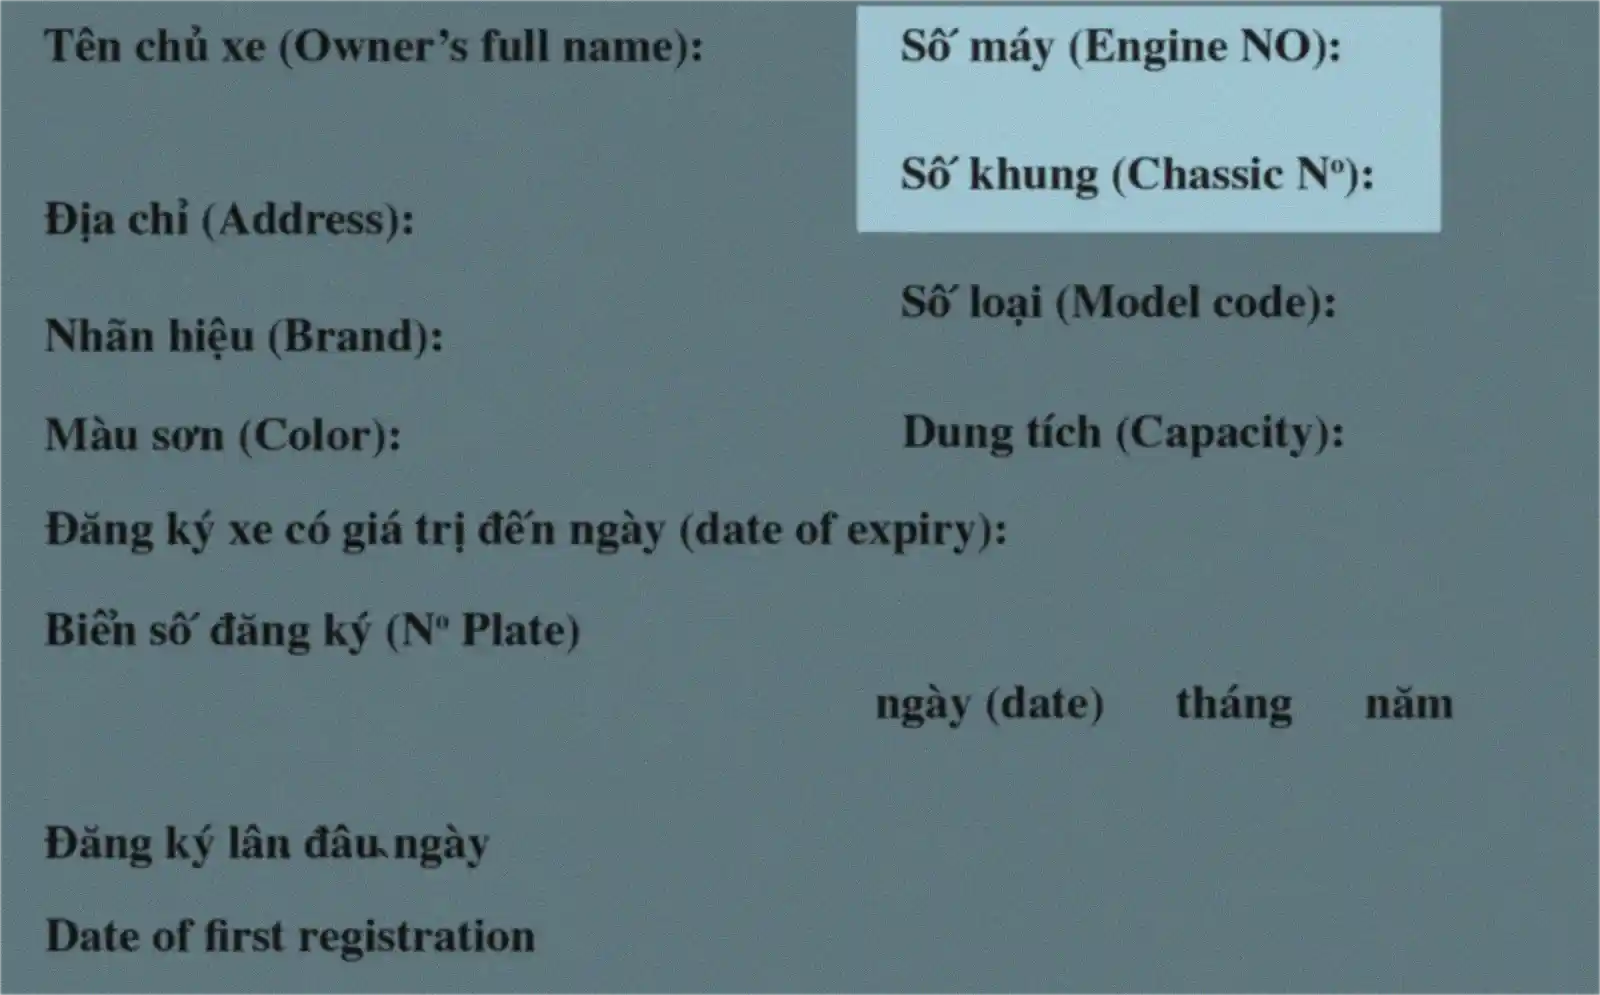
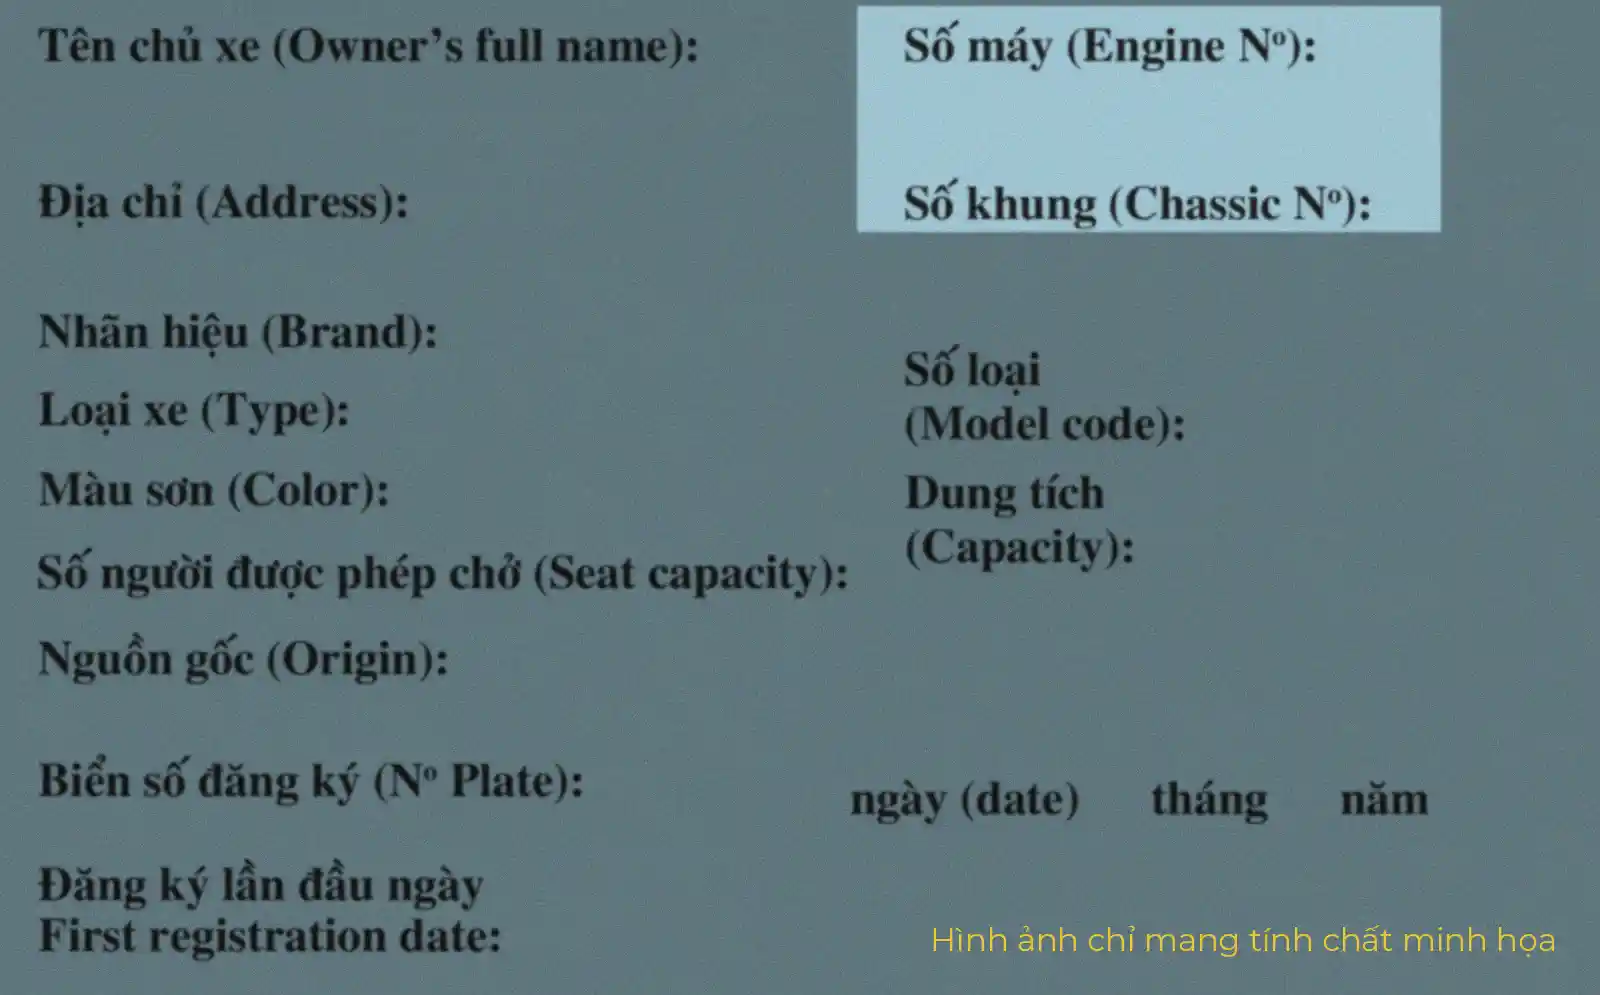
chore: update vehicle registration certificate mock images and text in GuideModal

diff --git a/src/components/modals/GuideModal.tsx b/src/components/modals/GuideModal.tsx
@@ -11,12 +11,12 @@ interface GuideModalProps {
 
 export default function GuideModal({ isOpen, onClose }: GuideModalProps) {
   const [currentSlide, setCurrentSlide] = useState(0);
-  const slides = ['Mẫu cà vẹt xe mới', 'Mẫu chứng nhận cũ'];
+  const slides = ['Mẫu cà vẹt xe mới (minh họa)', 'Mẫu cà vẹt xe cũ (minh họa)'];
 
   // Swipe handlers
   const [touchStart, setTouchStart] = useState<number | null>(null);
   const [touchEnd, setTouchEnd] = useState<number | null>(null);
-  
+
   const minSwipeDistance = 40;
 
   const onTouchStart = (e: React.TouchEvent) => {
@@ -33,7 +33,7 @@ export default function GuideModal({ isOpen, onClose }: GuideModalProps) {
     const distance = touchStart - touchEnd;
     const isLeftSwipe = distance > minSwipeDistance;
     const isRightSwipe = distance < -minSwipeDistance;
-    
+
     if (isLeftSwipe && currentSlide < slides.length - 1) {
       setCurrentSlide(currentSlide + 1);
     }
@@ -47,8 +47,8 @@ export default function GuideModal({ isOpen, onClose }: GuideModalProps) {
   return (
     <div className="fixed inset-0 z-50 flex items-end justify-center sm:items-center">
       {/* Overlay backblrop */}
-      <div 
-        className="fixed inset-0 bg-black/40 transition-opacity" 
+      <div
+        className="fixed inset-0 bg-black/40 transition-opacity"
         onClick={onClose}
       />
 
@@ -59,7 +59,7 @@ export default function GuideModal({ isOpen, onClose }: GuideModalProps) {
 
         <div className="relative flex justify-center items-center mb-4 shrink-0">
           <h2 className="text-[18px] font-bold text-[#1a1a1a] text-center w-full px-8">Cách tìm số khung, số máy</h2>
-          <button 
+          <button
             onClick={onClose}
             className="absolute right-0 p-1.5 hover:bg-gray-100 rounded-full transition-colors z-10"
           >
@@ -69,39 +69,39 @@ export default function GuideModal({ isOpen, onClose }: GuideModalProps) {
 
         {/* Scrollable Content */}
         <div className="flex-grow overflow-y-auto no-scrollbar space-y-6 pb-2">
-          
+
           {/* Slider Section */}
           <div className="flex flex-col items-center">
             {/* Box Image Placeholder */}
-            <div 
+            <div
               className="w-full relative aspect-[1600/995] bg-[#d3b878] rounded-xl flex items-center justify-center mb-3 overflow-hidden shadow-inner touch-pan-y"
               onTouchStart={onTouchStart}
               onTouchMove={onTouchMove}
               onTouchEnd={onTouchEndHandler}
             >
-               <div className="absolute inset-y-0 inset-x-0 w-[200%] flex transition-transform duration-300 ease-in-out" style={{ transform: `translateX(-${currentSlide * 50}%)` }}>
-                 <div className="w-1/2 shrink-0 flex items-center justify-center relative h-full">
-                   <Image src="/assets/ca-vet-moi.webp" alt="Mẫu cà vẹt xe mới" fill className="object-contain" />
-                 </div>
-                 <div className="w-1/2 shrink-0 flex items-center justify-center relative h-full">
-                   <Image src="/assets/ca-vet-cu.webp" alt="Mẫu cà vẹt xe cũ" fill className="object-contain" />
-                 </div>
-               </div>
-               
-               {/* Nút bấm chuyển slide hiện hình */}
-               <button 
-                 onClick={() => setCurrentSlide(0)} 
-                 className={`absolute left-2 top-1/2 -translate-y-1/2 w-8 h-8 rounded-full bg-white/80 shadow-sm flex items-center justify-center z-10 transition-opacity duration-300 ${currentSlide === 0 ? 'opacity-0 pointer-events-none' : 'opacity-100 hover:bg-white'}`}
-               >
-                 <ChevronLeft className="w-5 h-5 text-[#1a1a1a]" />
-               </button>
-               
-               <button 
-                 onClick={() => setCurrentSlide(1)} 
-                 className={`absolute right-2 top-1/2 -translate-y-1/2 w-8 h-8 rounded-full bg-white/80 shadow-sm flex items-center justify-center z-10 transition-opacity duration-300 ${currentSlide === 1 ? 'opacity-0 pointer-events-none' : 'opacity-100 hover:bg-white'}`}
-               >
-                 <ChevronRight className="w-5 h-5 text-[#1a1a1a]" />
-               </button>
+              <div className="absolute inset-y-0 inset-x-0 w-[200%] flex transition-transform duration-300 ease-in-out" style={{ transform: `translateX(-${currentSlide * 50}%)` }}>
+                <div className="w-1/2 shrink-0 flex items-center justify-center relative h-full">
+                  <Image src="/assets/ca-vet-moi.webp" alt="Mẫu cà vẹt xe mới (minh họa)" fill className="object-contain" />
+                </div>
+                <div className="w-1/2 shrink-0 flex items-center justify-center relative h-full">
+                  <Image src="/assets/ca-vet-cu.webp" alt="Mẫu cà vẹt xe cũ (minh họa)" fill className="object-contain" />
+                </div>
+              </div>
+
+              {/* Nút bấm chuyển slide hiện hình */}
+              <button
+                onClick={() => setCurrentSlide(0)}
+                className={`absolute left-2 top-1/2 -translate-y-1/2 w-8 h-8 rounded-full bg-white/80 shadow-sm flex items-center justify-center z-10 transition-opacity duration-300 ${currentSlide === 0 ? 'opacity-0 pointer-events-none' : 'opacity-100 hover:bg-white'}`}
+              >
+                <ChevronLeft className="w-5 h-5 text-[#1a1a1a]" />
+              </button>
+
+              <button
+                onClick={() => setCurrentSlide(1)}
+                className={`absolute right-2 top-1/2 -translate-y-1/2 w-8 h-8 rounded-full bg-white/80 shadow-sm flex items-center justify-center z-10 transition-opacity duration-300 ${currentSlide === 1 ? 'opacity-0 pointer-events-none' : 'opacity-100 hover:bg-white'}`}
+              >
+                <ChevronRight className="w-5 h-5 text-[#1a1a1a]" />
+              </button>
             </div>
 
             <span className="text-[13px] text-[#4b5563] mb-3">{slides[currentSlide]}</span>
@@ -109,8 +109,8 @@ export default function GuideModal({ isOpen, onClose }: GuideModalProps) {
             {/* Pagination Dots */}
             <div className="flex gap-1.5">
               {slides.map((_, idx) => (
-                <div 
-                  key={idx} 
+                <div
+                  key={idx}
                   className={`h-1.5 rounded-full transition-all ${currentSlide === idx ? 'w-4 bg-[#0253af]' : 'w-1.5 bg-gray-300'}`}
                 />
               ))}
@@ -143,10 +143,10 @@ export default function GuideModal({ isOpen, onClose }: GuideModalProps) {
             </div>
           </div>
         </div>
-        
+
         {/* Sticky Button bottom */}
         <div className="shrink-0 pt-4 bg-white">
-          <button 
+          <button
             onClick={onClose}
             className="w-full bg-[#0253af] text-white font-bold py-3.5 rounded-xl text-[16px] hover:bg-blue-800 transition-colors"
           >

diff --git a/src/app/api/ocr/route.ts b/src/app/api/ocr/route.ts
@@ -19,8 +19,40 @@ if (process.env.GOOGLE_APPLICATION_CREDENTIALS_JSON) {
 
 const client = new vision.ImageAnnotatorClient(clientConfigs);
 
+/**
+ * Hàm helper: trích xuất giá trị từ dòng hiện tại hoặc dòng kế tiếp.
+ * 
+ * Xử lý 2 trường hợp phổ biến trong Cavet:
+ *   Trường hợp 1: "Tên chủ xe: NGUYỄN VĂN A"  → lấy phần sau dấu ":"
+ *   Trường hợp 2: "Tên chủ xe"
+ *                  "NGUYỄN VĂN A"               → lấy dòng kế tiếp
+ */
+function extractValue(currentLine: string, nextLine: string | undefined, cleanRegex?: RegExp): string {
+  // Trường hợp 1: Giá trị nằm sau dấu ":" hoặc "：" trên cùng dòng
+  const colonIndex = currentLine.search(/[:：]/);
+  if (colonIndex !== -1) {
+    const afterColon = currentLine.substring(colonIndex + 1).trim();
+    if (afterColon.length > 0) {
+      return cleanRegex ? afterColon.replace(cleanRegex, '') : afterColon;
+    }
+  }
+
+  // Trường hợp 2: Giá trị nằm ở dòng kế tiếp
+  const value = nextLine || '';
+  return cleanRegex ? value.replace(cleanRegex, '') : value;
+}
+
 export async function POST(req: NextRequest) {
   try {
+    // Fix #3: Kiểm tra Content-Length để từ chối payload quá lớn sớm
+    const contentLength = req.headers.get('content-length');
+    if (contentLength && parseInt(contentLength) > 10 * 1024 * 1024) {
+      return NextResponse.json(
+        { error: 'Dữ liệu ảnh quá lớn. Vui lòng chọn ảnh nhỏ hơn.' },
+        { status: 413 }
+      );
+    }
+
     const { imageBase64 } = await req.json();
     if (!imageBase64) {
       return NextResponse.json({ error: 'Vui lòng cung cấp dữ liệu ảnh.' }, { status: 400 });
@@ -39,7 +71,11 @@ export async function POST(req: NextRequest) {
     const fullTextAnnotation = result.fullTextAnnotation;
     
     if (!fullTextAnnotation || !fullTextAnnotation.text) {
-      return NextResponse.json({ extracted: {} });
+      return NextResponse.json({ 
+        success: false, 
+        error: 'Không nhận diện được văn bản từ ảnh. Vui lòng chụp rõ nét hơn.',
+        extracted: {} 
+      });
     }
 
     const text = fullTextAnnotation.text;
@@ -52,38 +88,69 @@ export async function POST(req: NextRequest) {
       engineNumber: '',
       address: '',
     };
+
+    // Regex dọn dẹp cho từng loại field
+    const alphanumericDotDash = /[^A-Z0-9.\-]/gi;  // Cho biển số (giữ dấu . và -)
+    const alphanumericOnly = /[^A-Z0-9]/gi;          // Cho số khung, số máy
     
-    // Logic quét dòng và đọc giá trị kế tiếp (rất phổ biến đối với cấu trúc Cavet)
+    // Fix #2: Logic parse text linh hoạt — kiểm tra cùng dòng (sau dấu ":") trước, rồi mới lấy dòng kế
     for (let i = 0; i < lines.length; i++) {
         const line = lines[i].toUpperCase();
+        const originalLine = lines[i]; // Giữ nguyên bản gốc (có dấu) cho extractValue
         
         if (line.includes("TÊN") && (line.includes("CHỦ XE") || line.includes("OWNER"))) {
-            if (!extracted.ownerName) extracted.ownerName = lines[i+1] || '';
+            if (!extracted.ownerName) {
+              extracted.ownerName = extractValue(originalLine, lines[i+1]);
+            }
         }
         else if (line.includes("BIỂN SỐ") || line.includes("LICENSE PLATE")) {
-            if (!extracted.licensePlate) extracted.licensePlate = (lines[i+1] || '').replace(/[^A-Z0-9-]/gi, '');
+            if (!extracted.licensePlate) {
+              extracted.licensePlate = extractValue(originalLine, lines[i+1], alphanumericDotDash);
+            }
         }
         else if (line.includes("SỐ KHUNG") || line.includes("CHASSIS NO")) {
-            if (!extracted.chassisNumber) extracted.chassisNumber = (lines[i+1] || '').replace(/[^A-Z0-9]/gi, '');
+            if (!extracted.chassisNumber) {
+              extracted.chassisNumber = extractValue(originalLine, lines[i+1], alphanumericOnly);
+            }
         }
         else if (line.includes("SỐ MÁY") || line.includes("ENGINE NO")) {
-            if (!extracted.engineNumber) extracted.engineNumber = (lines[i+1] || '').replace(/[^A-Z0-9]/gi, '');
+            if (!extracted.engineNumber) {
+              extracted.engineNumber = extractValue(originalLine, lines[i+1], alphanumericOnly);
+            }
         }
         else if (line.includes("ĐỊA CHỈ") || line.includes("ADDRESS")) {
             if (!extracted.address) {
-              let addr = lines[i+1] || '';
-              // Lấy thêm dòng tiếp theo nếu dòng đó không phải là Title của trường tiếp theo
-              if (lines[i+2] && !lines[i+2].toUpperCase().includes("NHÃN HIỆU") && !lines[i+2].toUpperCase().includes("BRAND") && !lines[i+2].includes('Nơi cấp')) {
+              // Địa chỉ cần xử lý đặc biệt vì có thể trải dài nhiều dòng
+              let addr = extractValue(originalLine, lines[i+1]);
+
+              // Nếu giá trị lấy từ dòng kế (không phải cùng dòng), thử ghép thêm dòng tiếp theo
+              const colonIndex = originalLine.search(/[:：]/);
+              const isFromSameLine = colonIndex !== -1 && originalLine.substring(colonIndex + 1).trim().length > 0;
+
+              if (!isFromSameLine && lines[i+2] && 
+                  !lines[i+2].toUpperCase().includes("NHÃN HIỆU") && 
+                  !lines[i+2].toUpperCase().includes("BRAND") && 
+                  !lines[i+2].includes('Nơi cấp')) {
                   addr += ", " + lines[i+2];
               }
               extracted.address = addr.replace(/^, | ,/g, '').trim();
             }
         }
     }
+
+    // Kiểm tra: nếu không trích xuất được field nào → trả lỗi thay vì success rỗng
+    const filledCount = Object.values(extracted).filter(v => v).length;
+    if (filledCount === 0) {
+      return NextResponse.json({ 
+        success: false, 
+        error: 'Không nhận diện được thông tin Cavet từ ảnh này. Vui lòng chụp rõ nét hơn hoặc điền thủ công.',
+      });
+    }
     
     return NextResponse.json({ 
       success: true,
-      text: text, // Trả luôn text thô để log debug ở client nếu cần
+      // Chỉ trả raw text khi đang ở môi trường development (tránh lộ thông tin ở production)
+      ...(process.env.NODE_ENV === 'development' && { text }),
       extracted
     });
     

diff --git a/src/components/insurance/OcrUploader.tsx b/src/components/insurance/OcrUploader.tsx
@@ -11,6 +11,43 @@ interface OcrUploaderProps {
   }) => void;
 }
 
+/**
+ * Thu nhỏ ảnh trước khi gửi lên server để giảm dung lượng.
+ * - Giới hạn chiều rộng tối đa 1600px (đủ để OCR đọc chữ)
+ * - Nén thành JPEG chất lượng 80%
+ * - Ảnh 5MB gốc → ~200-400KB sau khi resize
+ */
+function resizeImage(file: File, maxWidth = 1600): Promise<string> {
+  return new Promise((resolve, reject) => {
+    const img = new Image();
+    img.onload = () => {
+      try {
+        const scale = Math.min(1, maxWidth / img.width);
+        const canvas = document.createElement('canvas');
+        canvas.width = Math.round(img.width * scale);
+        canvas.height = Math.round(img.height * scale);
+        const ctx = canvas.getContext('2d');
+        if (!ctx) {
+          reject(new Error('Canvas context not available'));
+          return;
+        }
+        ctx.drawImage(img, 0, 0, canvas.width, canvas.height);
+        const resizedBase64 = canvas.toDataURL('image/jpeg', 0.8);
+        resolve(resizedBase64);
+      } catch (err) {
+        reject(err);
+      } finally {
+        URL.revokeObjectURL(img.src);
+      }
+    };
+    img.onerror = () => {
+      URL.revokeObjectURL(img.src);
+      reject(new Error('Không thể đọc file ảnh.'));
+    };
+    img.src = URL.createObjectURL(file);
+  });
+}
+
 export default function OcrUploader({ onOcrSuccess }: OcrUploaderProps) {
   const [loading, setLoading] = useState(false);
   const [success, setSuccess] = useState(false);
@@ -21,9 +58,9 @@ export default function OcrUploader({ onOcrSuccess }: OcrUploaderProps) {
     const file = e.target.files?.[0];
     if (!file) return;
 
-    // Optional: Kiểm tra size nếu cần
-    if (file.size > 5 * 1024 * 1024) {
-      alert("Kích thước ảnh quá lớn (giới hạn 5MB).");
+    // Nâng giới hạn lên 10MB vì ảnh sẽ được resize trước khi gửi
+    if (file.size > 10 * 1024 * 1024) {
+      alert("Kích thước ảnh quá lớn (giới hạn 10MB).");
       return;
     }
 
@@ -31,43 +68,33 @@ export default function OcrUploader({ onOcrSuccess }: OcrUploaderProps) {
     setSuccess(false);
 
     try {
-      const reader = new FileReader();
-      reader.readAsDataURL(file);
-      reader.onload = async () => {
-        const base64 = reader.result as string;
-        
-        try {
-          const res = await fetch('/api/ocr', {
-            method: 'POST',
-            headers: { 'Content-Type': 'application/json' },
-            body: JSON.stringify({ imageBase64: base64 }),
-          });
+      // Bước 1: Thu nhỏ ảnh trước khi gửi (giảm từ 5-8MB → vài trăm KB)
+      const base64 = await resizeImage(file);
 
-          const data = await res.json();
-          
-          if (res.ok && data.success && data.extracted) {
-            onOcrSuccess(data.extracted);
-            setSuccess(true);
-            setTimeout(() => setSuccess(false), 4000);
-          } else {
-             alert(data.error || 'Trí tuệ nhân tạo (AI) chưa thể đọc được thông tin từ ảnh này. Vui lòng chụp rõ nét hơn hoặc điền thủ công.');
-          }
-        } catch (apiError) {
-          alert('Lỗi kết nối máy chủ OCR.');
-        } finally {
-          setLoading(false);
-        }
-      };
-      
-      reader.onerror = () => {
-        alert("Lỗi khi đọc file ảnh từ điện thoại.");
-        setLoading(false);
+      // Bước 2: Gửi ảnh đã thu nhỏ lên API OCR
+      const res = await fetch('/api/ocr', {
+        method: 'POST',
+        headers: { 'Content-Type': 'application/json' },
+        body: JSON.stringify({ imageBase64: base64 }),
+      });
+
+      const data = await res.json();
+
+      if (res.ok && data.success && data.extracted) {
+        onOcrSuccess(data.extracted);
+        setSuccess(true);
+        setTimeout(() => setSuccess(false), 4000);
+      } else {
+        alert(data.error || 'Trí tuệ nhân tạo (AI) chưa thể đọc được thông tin từ ảnh này. Vui lòng chụp rõ nét hơn hoặc điền thủ công.');
       }
     } catch (error) {
-       console.error(error);
-       setLoading(false);
+      console.error('OCR upload error:', error);
+      alert('Lỗi kết nối máy chủ OCR.');
+    } finally {
+      // Duy nhất 1 chỗ tắt loading — tránh gọi nhiều lần
+      setLoading(false);
     }
-    
+
     // Reset file input để có thể chọn lại cùng 1 file
     if (fileInputRef.current) fileInputRef.current.value = '';
     if (galleryInputRef.current) galleryInputRef.current.value = '';
